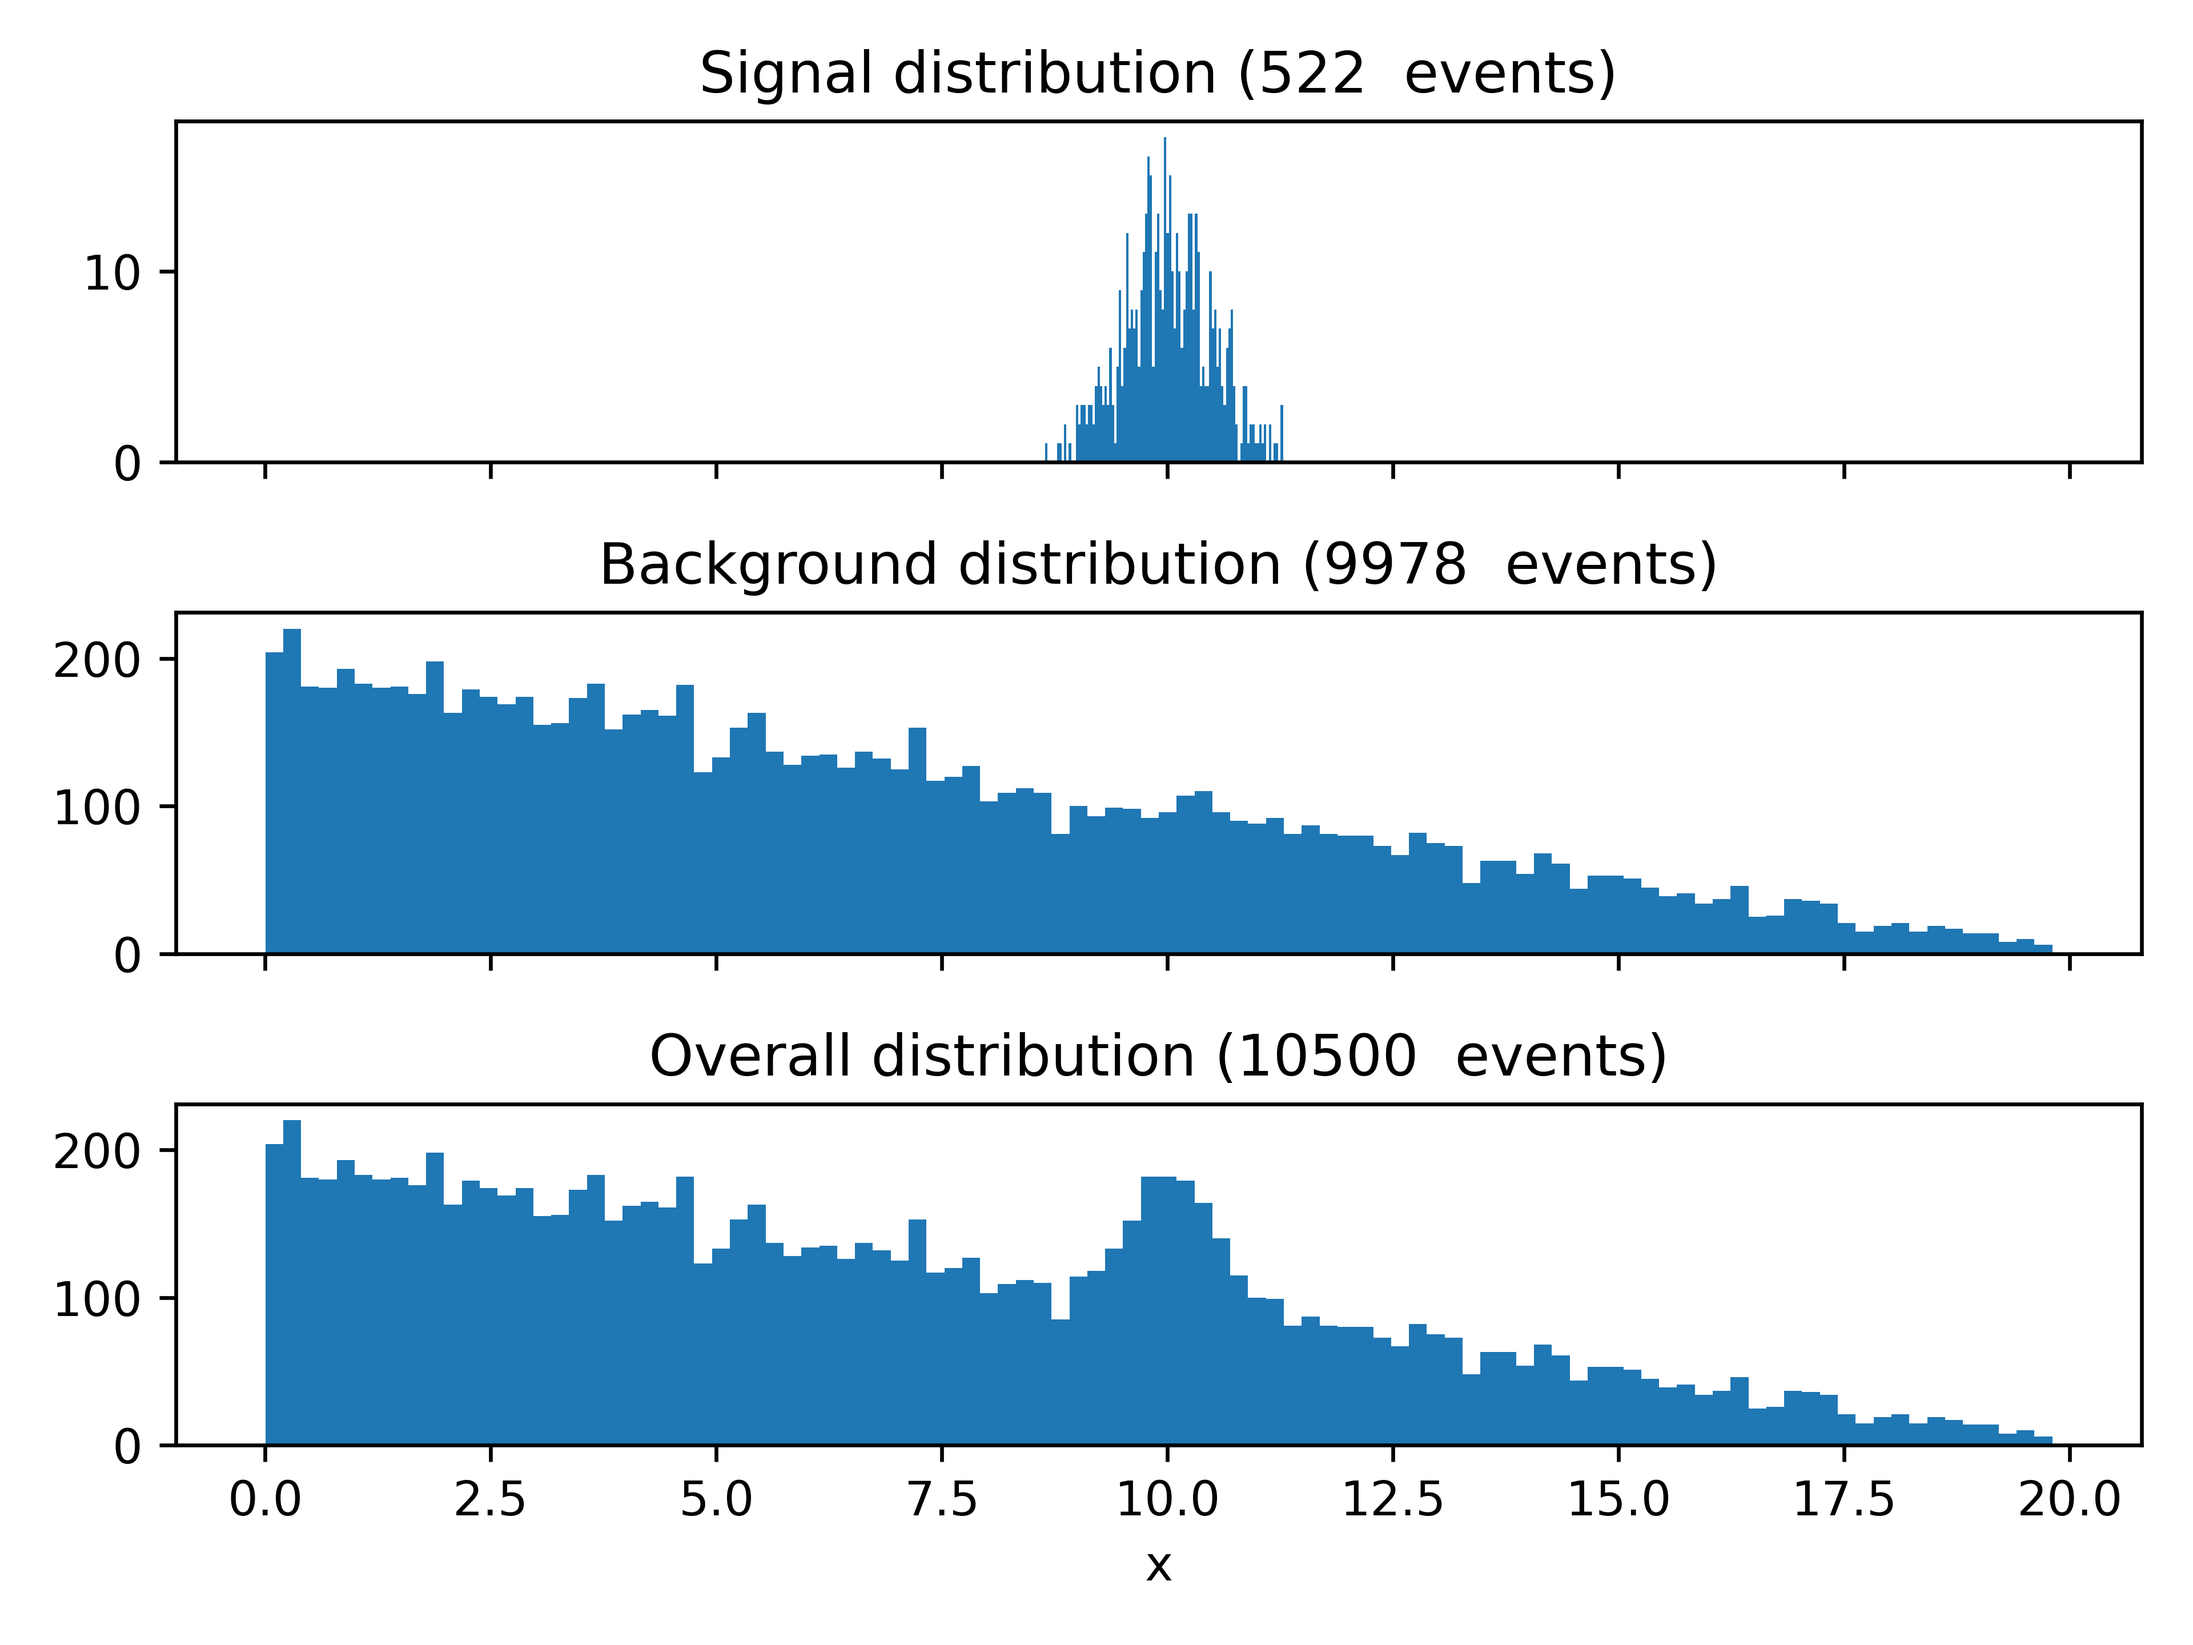
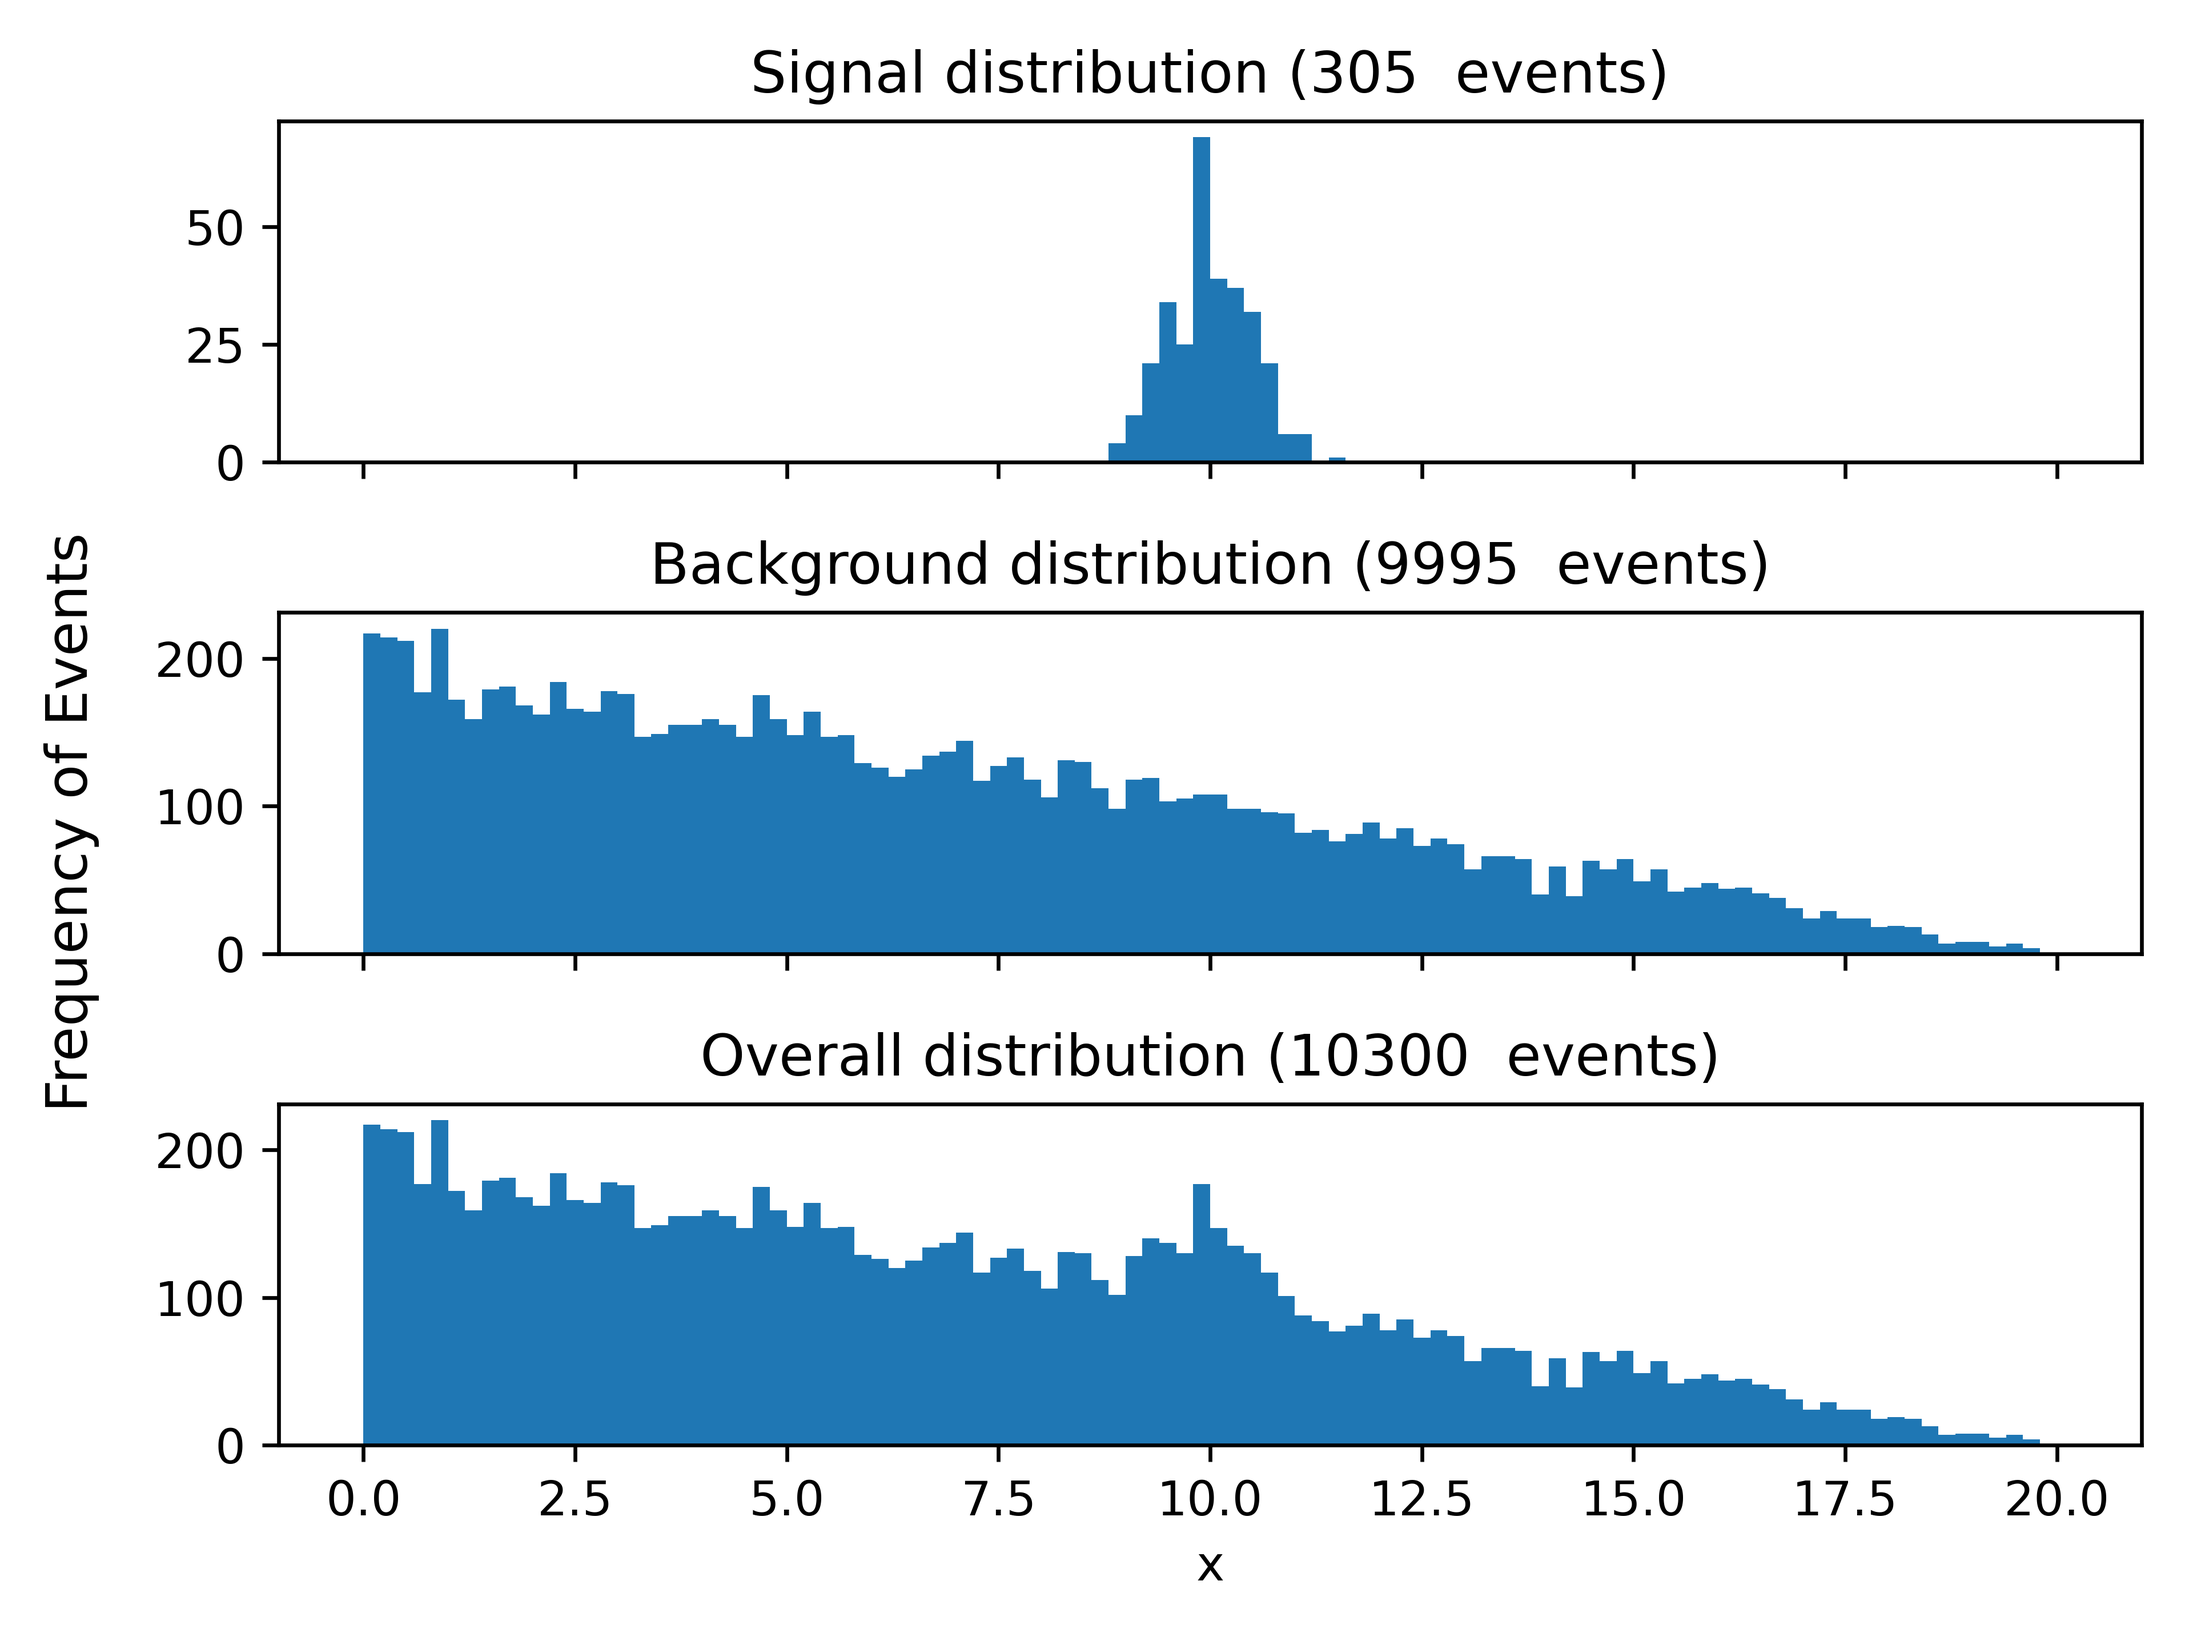
Added extra defensive code

diff --git a/week-8/runExcercise.py b/week-8/runExcercise.py
@@ -7,16 +7,18 @@ from eventGenerator import SignalWithBackground
 
 def single_toy(
     mean, sigma, slope, intercept, bounds, n_events_signal=300, 
-    n_events_background=10000, n_bins=100, save_plot=False,
+    n_events_background=10000, n_bins=100, plot_distribution=False,
 ):
     """
     Generate a toy dataset of a gaussian signal with linear background
     """
         
-    if not isinstance(bounds, tuple):
+    if (not isinstance(bounds, tuple)):
         raise TypeError("Variable bound must be a tuple with the form (boundMin, boundMax)")
-    if not len(bounds) == 2:
+    if (not len(bounds)) == 2:
         raise ValueError("Variable bound must have form (boundMin, boundMax)")
+    if (not bounds[0] < bounds[1]):
+        raise ValueError("First element in tuple must be smaller than second")
 
     n_events_total = n_events_signal + n_events_background
     signal_fraction = n_events_signal/n_events_total
@@ -30,8 +32,10 @@ def single_toy(
     data = pdf.getMass()
     signal_data = pdf.getMassSignal()
     background_data = pdf.getMassBackground()
-    
-    plot_signal_with_linear(data, signal_data, background_data, n_bins=n_bins, save_plot=save_plot)
+
+    # Plot the toy dataset if requested
+    if plot_distribution:
+        plot_signal_with_linear(data, signal_data, background_data, bounds, n_bins=n_bins)
 
 
 """
@@ -50,15 +54,15 @@ def excercise_1():
     SIGMA = 0.5
     SLOPE = -1.0
     INTERCEPT = 20.0
-    N_SIGNAL_EVENT = 500
+    N_SIGNAL_EVENT = 300
     N_BACKGROUND_EVENTS = 10000
     N_BINS = 100
-    SAVE_PLOT = True
+    PLOT_DISTRIBUTION = True
     
     # Generate single toy dataset
     single_toy(
         MEAN, SIGMA, SLOPE, INTERCEPT, BOUNDS, n_events_signal=N_SIGNAL_EVENT,
-        n_events_background=N_BACKGROUND_EVENTS, save_plot=SAVE_PLOT
+        n_events_background=N_BACKGROUND_EVENTS, plot_distribution=PLOT_DISTRIBUTION, n_bins=N_BINS
     )
 
 if __name__ == "__main__":

diff --git a/week-8/eventGenerator.py b/week-8/eventGenerator.py
@@ -14,6 +14,8 @@ class Linear(object):
             raise TypeError("Variable bound must be a tuple with the form (boundMin, boundMax)")
         if (not len(bounds) == 2):
             raise ValueError("Variable bound must have form (boundMin, boundMax)")
+        if (not bounds[0] < bounds[1]):
+            raise ValueError("First element in tuple must be smaller than second")
         
         # Initialise class variables
         self.intercept = intercept
@@ -68,6 +70,8 @@ class Gaussian(object):
             raise TypeError("Variable bound must be a tuple with the form (boundMin, boundMax)")
         if (not len(bounds) == 2):
             raise ValueError("Variable bound must have form (boundMin, boundMax)")
+        if (not bounds[0] < bounds[1]):
+            raise ValueError("First element in tuple must be smaller than second")
         
         # Initialise class variables
         self.mean = mean
@@ -116,6 +120,8 @@ class SignalWithBackground(object):
             raise TypeError("Variable bound must be a tuple with the form (boundMin, boundMax)")
         if not len(bounds) == 2:
             raise ValueError("Variable bound must have form (boundMin, boundMax)")
+        if (not bounds[0] < bounds[1]):
+            raise ValueError("First element in tuple must be smaller than second")
 
         self.signalFraction = signalFraction
         # Initialise lists to hold randomly generated values

diff --git a/week-8/utils.py b/week-8/utils.py
@@ -12,7 +12,7 @@ def find_max(function, bound_low, bound_high, grid=100000,):
     y = function(x)
     return y.max()
 
-def plot_signal_with_linear(data, signal_data, background_data, n_bins=100, save_plot=False):
+def plot_signal_with_linear(data, signal_data, background_data, bounds, n_bins=100, save_plot=False):
     """
     Plot a figure of the distribution of the signal with background along with 
     individual components of the background and signal distribution
@@ -29,14 +29,15 @@ def plot_signal_with_linear(data, signal_data, background_data, n_bins=100, save
     fig, axes = plt.subplots(3, 1, sharex="col")
 
     for idx in range(len(axes)):
-        axes[idx].hist(axes_data[idx], bins = n_bins)
+        axes[idx].hist(axes_data[idx], bins = n_bins, range=bounds)
         axes[idx].set_title(axes_titles[idx])
     
-    axes[-1].set_xlabel("x (Events)")
+    axes[-1].set_xlabel("x")
+    fig.supylabel("Frequency of Events")
+
     fig.tight_layout()
 
-    if save_plot:
-        # Save the figure to plot directory
-        fig.savefig("plots/linear_with_background.png", dpi=600)
+    # Save plot to designated folder
+    fig.savefig("plots/linear_with_background.png", dpi=600)
 
     plt.show()
